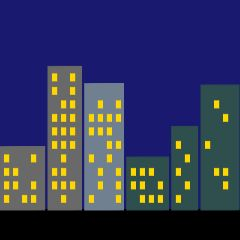
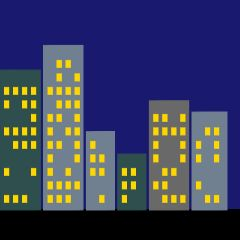
fix: Gallery pieces animate in Normal mode and draw in Step mode (F-021)
Six pieces used screen.tracer(0), which buffers every frame until the
final screen.update(): the drawing appeared all at once in Normal mode,
and in Step mode the canvas stayed empty for thousands of steps.

- pieces call screen.tracer(n) (8 to 80) and draw visibly in 2-5 s
- during Step runs, stepTracer() makes screen.tracer(n) paint every move,
  so each line's drawing shows; Normal runs keep the program's value
- test: Step mode paints moves after tracer(0) (fails without the fix)
- thumbnails regenerated; SPEC.md 5.5/7.3, AGENTS.md recipe, spec updated

diff --git a/tests/gallery.spec.js b/tests/gallery.spec.js
@@ -132,3 +132,20 @@ for (const hash of ["#gallery=nope", "#gallery=", "#gallery=G-KOCH-SNOWFLAKE", "
     await expect(page.locator("#replaceDialog")).not.toBeVisible();
   });
 }
+
+// Pieces call screen.tracer(n) to draw quickly; Step mode must still paint each move as its line runs.
+const redPixels = (page) => page.evaluate(() => [...document.querySelectorAll("#target canvas")].reduce((sum, c) => {
+  const d = c.getContext("2d").getImageData(0, 0, c.width, c.height).data; let n = 0;
+  for (let i = 0; i < d.length; i += 4) if (d[i] > 200 && d[i + 1] < 60 && d[i + 2] < 60 && d[i + 3] > 200) n++;
+  return sum + n;
+}, 0));
+test("Step mode paints each move even when the program calls screen.tracer(0)", async ({ page }) => {
+  await openApp(page);
+  await page.fill("#code", "import turtle\nt = turtle.Turtle()\nt.hideturtle()\nt.pencolor(\"red\")\nt.width(4)\nturtle.Screen().tracer(0)\nt.forward(100)\nt.left(90)\nt.forward(100)\n");
+  await page.selectOption("#runMode", "step");
+  await page.selectOption("#stepSpeed", "900");
+  await page.evaluate(() => { run(); });
+  await expect(page.locator("#rail .railLine.current")).toHaveText("8"); // line 7 (forward) has run
+  expect(await redPixels(page)).toBeGreaterThan(100);
+  await page.click("#stopTop");
+});

diff --git a/docs/specs/F-021-gallery.md b/docs/specs/F-021-gallery.md
@@ -56,18 +56,18 @@ All pieces are verified in the vendored Skulpt 1.2.0 (Normal mode, Chromium, 128
 
 | # | id | Name (en) | Name (ar) | Level chip | Built with (lesson ids) | Run time |
 | --- | --- | --- | --- | --- | --- | --- |
-| 1 | `g-rainbow-spiral` | Rainbow Spiral | دوّامة قوس قزح | After Level 9 | l12, l31, l34 | ~4.5 s, animated |
-| 2 | `g-spirograph` | Spirograph | زهرة الدوائر | After Level 9 | l12, l31, l35 | ~3 s, animated |
-| 3 | `g-mandala` | Mandala | ماندالا | After Level 9 | l28, l30, l35 | ~4.5 s, animated |
-| 4 | `g-sunset` | Sunset at Sea | غروب على البحر | After Level 11 | l10, l21, l28, l41 | instant |
-| 5 | `g-starry-night` | Starry Night | ليلة مليئة بالنجوم | After Level 11 | l28, l33, l39 | ~5 s, animated |
-| 6 | `g-city-night` | City at Night | مدينة في الليل | After Level 11 | l24, l28, l39, l40, l42 | instant |
-| 7 | `g-blossom-tree` | Blossom Tree | شجرة مزهرة | After Level 12 | l39, l46 | instant |
-| 8 | `g-koch-snowflake` | Koch Snowflake | ندفة ثلج كوخ | After Level 12 | l46 | instant |
-| 9 | `g-sierpinski` | Sierpinski Triangle | مثلث سيربنسكي | After Level 12 | l10, l46 | instant |
-| 10 | `g-golden-galaxy` | Golden Galaxy | المجرّة الذهبية | Beyond the lessons | l41, l42 | instant |
+| 1 | `g-rainbow-spiral` | Rainbow Spiral | دوّامة قوس قزح | After Level 9 | l12, l31, l34 | ~2.5 s |
+| 2 | `g-spirograph` | Spirograph | زهرة الدوائر | After Level 9 | l12, l31, l35 | ~2 s |
+| 3 | `g-mandala` | Mandala | ماندالا | After Level 9 | l28, l30, l35 | ~2.5 s |
+| 4 | `g-sunset` | Sunset at Sea | غروب على البحر | After Level 11 | l10, l21, l28, l41 | ~4 s |
+| 5 | `g-starry-night` | Starry Night | ليلة مليئة بالنجوم | After Level 11 | l28, l33, l39 | ~3 s |
+| 6 | `g-city-night` | City at Night | مدينة في الليل | After Level 11 | l24, l28, l39, l40, l42 | ~4 s |
+| 7 | `g-blossom-tree` | Blossom Tree | شجرة مزهرة | After Level 12 | l39, l46 | ~4 s |
+| 8 | `g-koch-snowflake` | Koch Snowflake | ندفة ثلج كوخ | After Level 12 | l46 | ~4 s |
+| 9 | `g-sierpinski` | Sierpinski Triangle | مثلث سيربنسكي | After Level 12 | l10, l46 | ~4 s |
+| 10 | `g-golden-galaxy` | Golden Galaxy | المجرّة الذهبية | Beyond the lessons | l41, l42 | ~4 s |
 
-"Instant" pieces use `screen.tracer(0)` and `screen.update()`. Animated pieces use `screen.tracer(2)` so they still draw visibly but twice as fast. Blossom Tree is a deliberate step beyond lesson 46 (which builds the plain fractal tree), not a copy of it.
+Every piece animates. Each one calls `screen.tracer(n)` (n = 2 for the first pieces, up to 80 for Sierpinski and Golden Galaxy) so it draws visibly in about 2–5 s. An earlier draft used `tracer(0)`, which painted nothing until the final `screen.update()`: the picture popped in all at once in Normal mode, and Step mode showed an empty canvas. During Step runs the app also makes `tracer(n)` paint every move (`stepTracer()`), so each line's drawing shows. Blossom Tree is a deliberate step beyond lesson 46 (which builds the plain fractal tree), not a copy of it.
 
 Descriptions and remix ideas:
 
@@ -168,7 +168,7 @@ The maintainer delegated these to the recommended options (2026-10-24).
 - **Q4. Landing page.** No "See what you can build" strip in this feature.
 
 ## Appendix: verified piece code
-Run in Skulpt 1.2.0 through the app's `run()` in Normal mode (Chromium, 1280×900, canvas ~430×520). Every piece stays inside a 320×320 box at the origin.
+Same as `gallery` in `app.html`. Run in Skulpt 1.2.0 through the app's `run()` in Normal and Step mode (Chromium, 1280×900, canvas ~430×520). Every piece stays inside a 320×320 box at the origin.
 
 <details><summary><code>g-rainbow-spiral</code></summary>
 
@@ -258,7 +258,7 @@ import turtle
 
 t = turtle.Turtle()
 screen = turtle.Screen()
-screen.tracer(0)
+screen.tracer(8)   # draw 8 moves per frame. Remix: try 1 to watch every move
 t.hideturtle()
 
 def band(y, height, color):
@@ -356,7 +356,7 @@ import random
 t = turtle.Turtle()
 screen = turtle.Screen()
 screen.bgcolor("midnightblue")
-screen.tracer(0)
+screen.tracer(40)   # draw 40 moves per frame. Remix: try 1 to watch every move
 t.hideturtle()
 
 def rectangle(x, y, w, h, color):
@@ -401,7 +401,7 @@ import random
 t = turtle.Turtle()
 screen = turtle.Screen()
 screen.bgcolor("lavenderblush")
-screen.tracer(0)
+screen.tracer(30)   # draw 30 moves per frame. Remix: try 1 to watch every move
 t.hideturtle()
 
 def tree(length, depth):
@@ -439,7 +439,7 @@ import turtle
 t = turtle.Turtle()
 screen = turtle.Screen()
 screen.bgcolor("aliceblue")
-screen.tracer(0)
+screen.tracer(50)   # draw 50 moves per frame. Remix: try 1 to watch every move
 t.hideturtle()
 t.pencolor("steelblue")
 t.width(2)
@@ -476,7 +476,7 @@ import turtle
 
 t = turtle.Turtle()
 screen = turtle.Screen()
-screen.tracer(0)
+screen.tracer(80)   # draw 80 moves per frame. Remix: try 1 to watch every move
 t.hideturtle()
 
 colors = ["crimson", "orange", "gold", "seagreen", "royalblue", "purple"]
@@ -516,7 +516,7 @@ import math
 t = turtle.Turtle()
 screen = turtle.Screen()
 screen.bgcolor("black")
-screen.tracer(0)
+screen.tracer(80)   # draw 80 moves per frame. Remix: try 1 to watch every move
 t.hideturtle()
 t.penup()
 

diff --git a/AGENTS.md b/AGENTS.md
@@ -128,7 +128,7 @@ Key symbols: `lessons`, `LESSON_AR`, `LEVEL_AR`, `docs`, `extraDocs`, `examples`
 Append to `examples` (`{name, code}`) or `extraDocs` (`{category, command, explanation, example}`) using the edit script above, **and** append the Arabic counterpart at the same index: `EXAMPLE_NAMES_AR` (a name) or `DOCS_AR` (`{category, explanation}`). The command and code stay Python (English). `check.mjs` fails if they are misaligned. The example must run in Skulpt. Update counts in `SPEC.md` §5.3/§5.4 and §14.
 
 ### Add a gallery piece (F-021)
-1. Write the piece and run it in the app in Normal mode. It must finish in about 5 s (use `screen.tracer(0)` + `screen.update()`, or `screen.tracer(2)` to keep some animation) and stay inside the centered 320×320 box (turtle coordinates -160..160), the minimum canvas size.
+1. Write the piece and run it in the app in Normal mode. It must finish in about 5 s (call `screen.tracer(n)` with the smallest n that does this, so it still animates, and end with `screen.update()`; never `tracer(0)`, which shows nothing until the end. Step mode paints every move anyway) and stay inside the centered 320×320 box (turtle coordinates -160..160), the minimum canvas size.
 2. Using `tools/content.mjs`, append to `gallery.json` `{id, level, uses, name, description, remix, code}` with a new permanent `g-<slug>` id, the level number that makes it reachable (or `null` for "Beyond the lessons"), the lesson ids it builds on, and 2–3 remix ideas (put code in backticks). Append the Arabic `{name, description, remix}` to `gallery.ar.json` at the same index. Code stays English.
 3. `node tools/gallery-thumbs.mjs g-<slug>`, then look at `assets/gallery/g-<slug>.jpg`.
 4. `node tools/build-offline.mjs && node tools/check.mjs && npm test` (`tests/gallery.spec.js` runs every piece; update its piece count and `tests/app.spec.js`). Update `SPEC.md` §5.5 and counts.

diff --git a/SPEC.md b/SPEC.md
@@ -487,8 +487,10 @@ Python (English). The Gallery tab shows them in this order:
 | Golden Galaxy | `g-golden-galaxy` | Beyond the lessons | lessons 41, 42 |
 
 Every piece finishes in Normal mode within about 5 s and stays inside the
-centered 320×320 box (the minimum canvas). Busy pieces use `screen.tracer(0)`
-and `screen.update()`; animated ones use `screen.tracer(2)`. Each card shows a
+centered 320×320 box (the minimum canvas). Every piece animates: each one calls
+`screen.tracer(n)`, with n from 2 to 80, so that it draws in about 2–5 s, and
+ends with `screen.update()` where n is large. In Step mode they still finish under the
+6,000-step limit (118 to 4,620 steps). Each card shows a
 static thumbnail `assets/gallery/<id>.jpg` (240×240 JPEG, `loading="lazy"`),
 generated by the dev-only `node tools/gallery-thumbs.mjs`. Gallery pieces award
 no stars or badges and nothing new is stored.
@@ -599,7 +601,9 @@ Successful code execution never automatically completes a lesson.
 ### 7.3 Step-by-step implementation
 
 Step mode runs with a timed delay per step and, since F-010, can be paused and
-advanced manually. While a Step-mode run is active, **⏸ Pause**, **⏭ Next step**
+advanced manually. During a Step run, `stepTracer()` makes `screen.tracer(n)`
+act as `tracer(1)` (F-021), so each turtle move is painted as its line runs
+even in programs that buffer frames; Normal runs keep the program's value. While a Step-mode run is active, **⏸ Pause**, **⏭ Next step**
 and **▶ Continue** appear in the debug bar (`#stepControls`):
 
 - **Pause** sets `stepPaused` and cancels the pending timer, so execution halts
